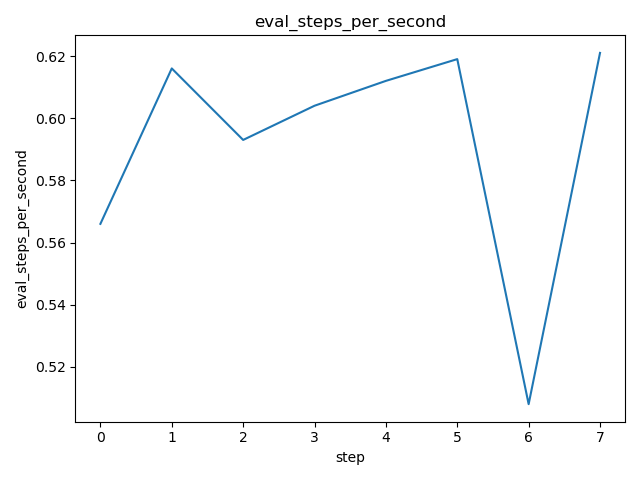
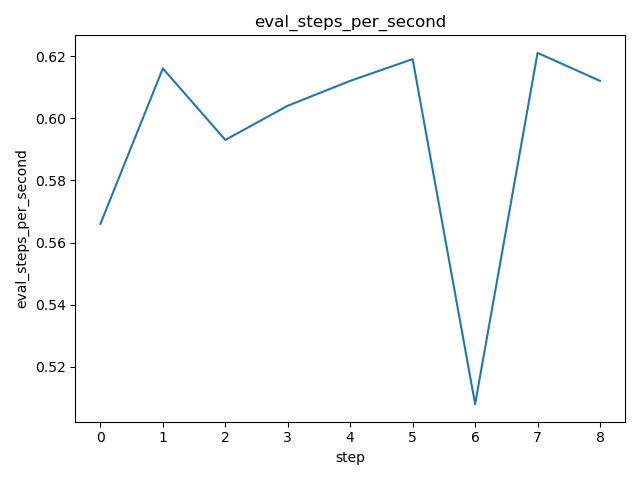
dvc: commit experiment e798d7a08f239e1779e93972dd465218ab0cf451a2d38194a7fa4cb3557dd3da

diff --git a/data/ogt_protein_classifier/dvclive/report.md b/data/ogt_protein_classifier/dvclive/report.md
@@ -4,7 +4,7 @@ metrics.json
 
 |   loss |   learning_rate |   epoch |   eval_loss |   eval_f1 |   eval_accuracy |   eval_matthew |   eval_runtime |   eval_samples_per_second |   eval_steps_per_second |   step |
 |--------|-----------------|---------|-------------|-----------|-----------------|----------------|----------------|---------------------------|-------------------------|--------|
-| 0.0221 |         3.4e-05 |      16 |    0.768463 |  0.833333 |             0.8 |       0.654654 |         3.2202 |                    24.843 |                   0.621 |      7 |
+| 0.0155 |         3.2e-05 |      18 |    0.764029 |  0.821053 |          0.7875 |       0.620264 |         3.2688 |                    24.473 |                   0.612 |      8 |
 
 ![static/eval_steps_per_second](static/eval_steps_per_second.png)
 
